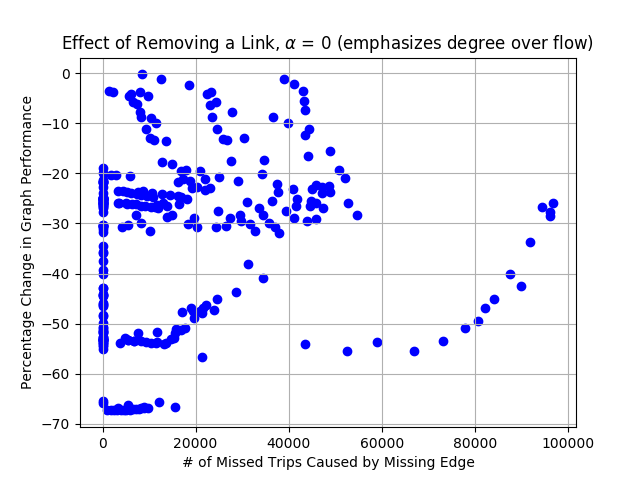
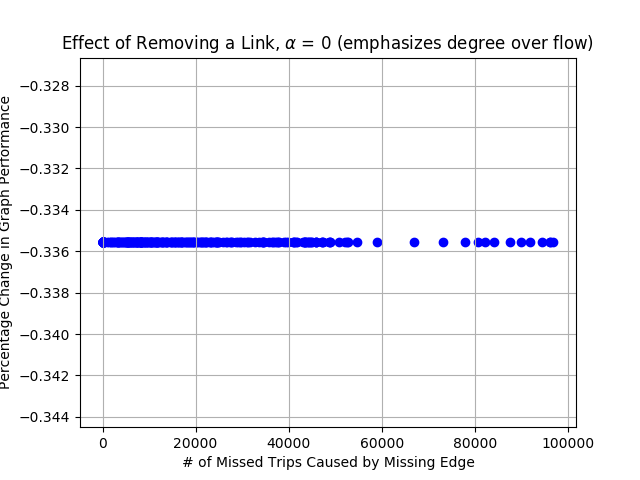
:hammer: Stop overwriting the images

diff --git a/modifying_edges.py b/modifying_edges.py
@@ -55,9 +55,11 @@ def delete_one_edge_and_evaluate(graph, test_type=None,
         measure = graph_measure(graph, "activity_and_popularity", alpha=0)
         effect = ((measure - unmodified_alpha_0_score)/unmodified_alpha_0_score)*100.0
         removal_effects_alpha_0.append(effect)
+        
         measure = graph_measure(graph, "activity_and_popularity", alpha=1)
         effect = ((measure - unmodified_alpha_1_score)/unmodified_alpha_1_score)*100.0
         removal_effects_alpha_1.append(effect)
+        
         measure = graph_measure(graph, "metro_performance", missed_trips=missed)
         effect = ((measure - unmodified_metro_score)/unmodified_metro_score)*100.0
         removal_effects.append(effect)
@@ -102,23 +104,28 @@ def delete_one_edge_and_evaluate(graph, test_type=None,
         },
         "metro_performance": {
             "title": "Effect on Utility/Cost Analysis of Removing a Link",
-            "file_name": "metro_performance_"
+            "file_name": "metro_performance_",
+            "y_on_the_plot": removal_effects
         },
         "activity_and_popularity_0": {
             "title": r"Effect of Removing a Link, $\alpha$ = " + str(0) + " (emphasizes degree over flow)",
-            "file_name": "activity_and_popularity_alpha_" + str(0) + "_"
+            "file_name": "activity_and_popularity_alpha_" + str(0) + "_",
+            "y_on_the_plot": removal_effects_alpha_0
         },
         "activity_and_popularity_1": {
             "title": r"Effect of Removing a Link, $\alpha$ = " + str(1) + " (emphasizes flow over degree)",
-            "file_name": "activity_and_popularity_alpha_" + str(1) + "_"
+            "file_name": "activity_and_popularity_alpha_" + str(1) + "_",
+            "y_on_the_plot": removal_effects_alpha_1
         }
     }
     
+    # x_axis_data=["flows", "centralities", "distances", "num_missed_trips"]
     def helper_make_plots(y=None, title_key=None):
         for this_x_axis_data in x_axis_data:
             make_plot(
                 x=plot_options[this_x_axis_data]["x_on_the_plot"], 
-                y=removal_effects, type_of_plot="scatter",
+                y=plot_options[title_key]["y_on_the_plot"], 
+                type_of_plot="scatter",
                 ylabel="Percentage Change in Graph Performance", 
                 xlabel=plot_options[this_x_axis_data]["xlabel"],
                 title=plot_options[title_key]["title"],
@@ -183,6 +190,7 @@ def graph_measure(graph, test_type, **kwargs):
 
 def make_plot(x=None, y=None, xlabel=None, ylabel=None, title=None, 
     type_of_plot=None, file_name=None, **kwargs):
+    plt.figure(1)
     plt.grid(True)
     plt.xlabel(xlabel)
     plt.ylabel(ylabel)
@@ -212,10 +220,6 @@ def main():
         graph, test_type="activity_and_popularity", alpha=1,
         x_axis_data=["flows", "centralities", "distances", "num_missed_trips"]
     )
-    # delete_one_edge_and_evaluate(
-    #     graph, test_type="metro_performance",
-    #     x_axis_data=["flows", "centralities", "distances", "num_missed_trips"]
-    # )
     
 
 if __name__ == "__main__":
